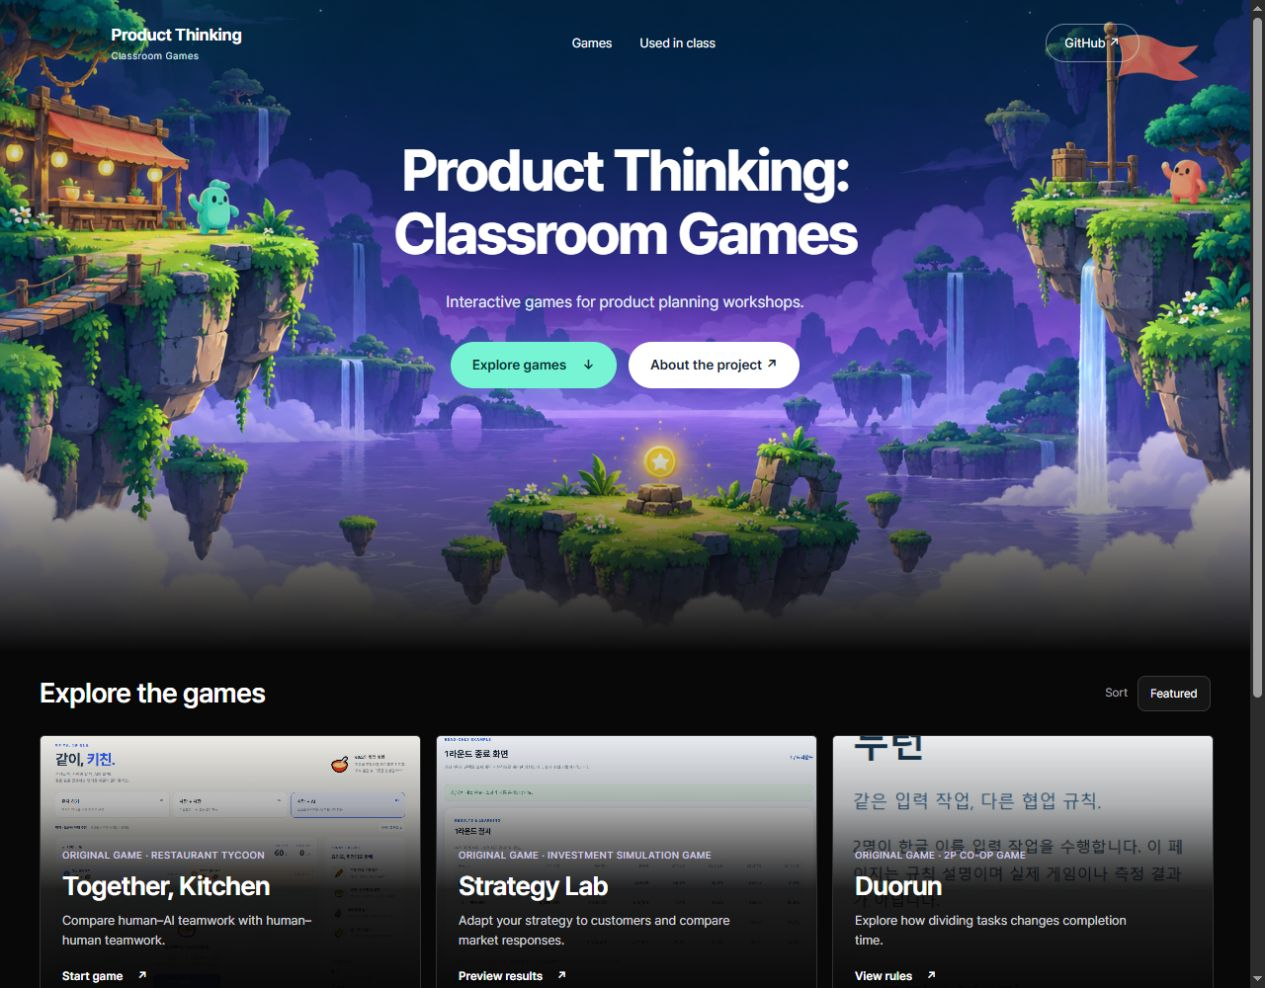
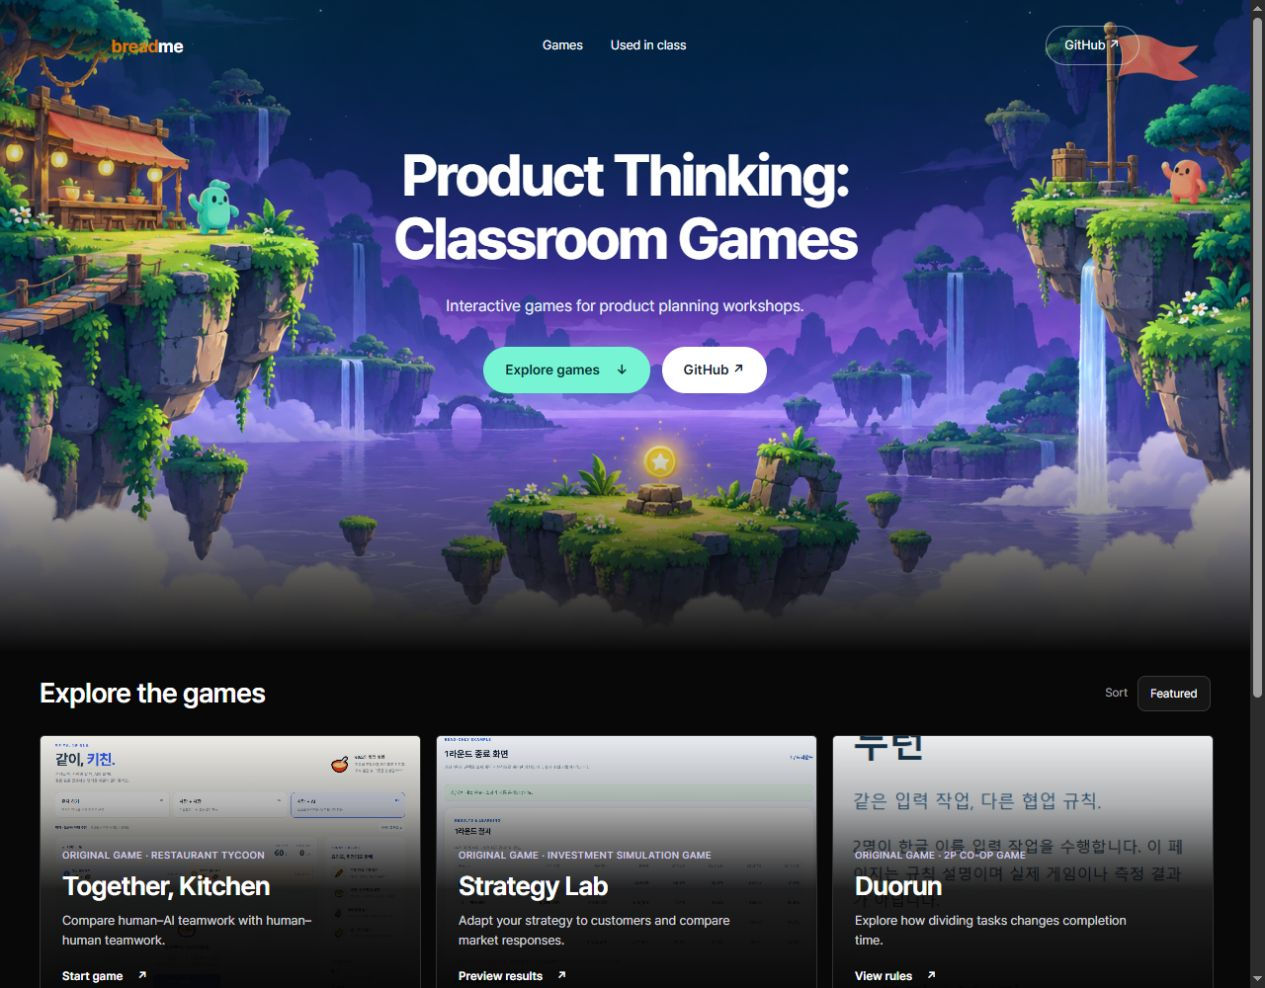
Reuse breadme portfolio wordmark and label GitHub links

diff --git a/index.html b/index.html
@@ -2,7 +2,7 @@
 <html lang="en"><head><meta charset="utf-8"><meta name="viewport" content="width=device-width,initial-scale=1"><meta name="color-scheme" content="dark"><title>Product Thinking: Classroom Games</title><link rel="stylesheet" href="style.css"></head><body class="hub">
 <a class="skip-link" href="#games">Skip to games</a>
 <section class="game-hero" aria-labelledby="hero-title">
-<nav class="hero-nav" aria-label="Main navigation"><a class="hero-brand" href="#">Product Thinking<span>Classroom Games</span></a><div><a href="#games">Games</a><a href="#external-game">Used in class</a></div><a class="hero-github" href="https://github.com/nana-park/product-thinking-classroom-games">GitHub ↗</a></nav>
-<div class="hero-copy"><h1 id="hero-title">Product Thinking:<br>Classroom Games</h1><p>Interactive games for product planning workshops.</p><div class="hero-actions"><a class="hero-primary" href="#games">Explore games <span aria-hidden="true">↓</span></a><a class="hero-secondary" href="https://github.com/nana-park/product-thinking-classroom-games#readme">About the project ↗</a></div></div>
+<nav class="hero-nav" aria-label="Main navigation"><a class="breadme-brand" href="#" aria-label="breadme — back to top"><span class="breadme-prefix">bread</span>me</a><div><a href="#games">Games</a><a href="#external-game">Used in class</a></div><a class="hero-github" href="https://github.com/nana-park/product-thinking-classroom-games">GitHub ↗</a></nav>
+<div class="hero-copy"><h1 id="hero-title">Product Thinking:<br>Classroom Games</h1><p>Interactive games for product planning workshops.</p><div class="hero-actions"><a class="hero-primary" href="#games">Explore games <span aria-hidden="true">↓</span></a><a class="hero-secondary" href="https://github.com/nana-park/product-thinking-classroom-games#readme">GitHub ↗</a></div></div>
 </section>
 <main class="news-shell" id="games" tabindex="-1"><header class="news-heading"><h2>Explore the games</h2><div class="news-sort"><label for="game-sort">Sort</label><select id="game-sort" aria-label="Sort games"><option value="default">Featured</option><option value="name">A–Z</option></select></div></header><ul class="news-grid" id="game-list"><li data-name="Together, Kitchen" data-order="0" ><a class="news-card kitchen-card" href="games/together-kitchen/index.html"><img class="news-image" src="games/together-kitchen/screenshot.png" alt="Together, Kitchen preview"><span class="news-content"><span class="news-category">Original game · Restaurant Tycoon</span><span class="news-title">Together, Kitchen</span><span class="news-purpose">Compare human–AI teamwork with human–human teamwork.</span><span class="news-action">Start game <span aria-hidden="true">↗</span></span></span></a></li><li data-name="Strategy Lab" data-order="1" ><a class="news-card strategy-card" href="https://customer-value-classroom.nana-the-variation.chatgpt.site/preview/results"><img class="news-image" src="games/strategy-lab/preview.png" alt="Strategy Lab preview"><span class="news-content"><span class="news-category">Original game · Investment Simulation Game</span><span class="news-title">Strategy Lab</span><span class="news-purpose">Adapt your strategy to customers and compare market responses.</span><span class="news-action">Preview results <span aria-hidden="true">↗</span></span></span></a></li><li data-name="Duorun" data-order="2" ><a class="news-card duorun-card" href="games/duorun/preview.html"><img class="news-image" src="games/duorun/screenshot.png" alt="Duorun preview"><span class="news-content"><span class="news-category">Original game · 2P Co-op Game</span><span class="news-title">Duorun</span><span class="news-purpose">Explore how dividing tasks changes completion time.</span><span class="news-action">View rules <span aria-hidden="true">↗</span></span></span></a></li><li data-name="User Inyerface" data-order="3" id="external-game"><a class="news-card external-card" href="https://userinyerface.com/"><span class="external-art" aria-hidden="true">UI<span>?</span></span><span class="news-content"><span class="news-category">External · Used in class · UI Experience</span><span class="news-title">User Inyerface</span><span class="news-purpose">Experience frustrating interfaces and spot design barriers.</span><span class="news-action">Visit original game <span aria-hidden="true">↗</span></span></span></a></li></ul></main><script>const list=document.getElementById('game-list');document.getElementById('game-sort').addEventListener('change',event=>{[...list.children].sort((a,b)=>event.target.value==='name'?a.dataset.name.localeCompare(b.dataset.name,'en'):Number(a.dataset.order)-Number(b.dataset.order)).forEach(item=>list.appendChild(item));});</script></body></html>

diff --git a/style.css b/style.css
@@ -25,3 +25,6 @@ body>header,body>main:not(.report-shell){max-width:1040px;margin:auto;padding:24
 body.hub{background:#080808;color:#fff}.hub .game-hero::after{content:"";position:absolute;inset:auto 0 0;height:240px;background:linear-gradient(180deg,transparent,#080808);pointer-events:none;z-index:0}.hub .hero-nav,.hub .hero-copy{position:relative;z-index:1}.hub .news-shell{max-width:1280px;margin:auto;padding:24px 40px 80px}.news-heading{display:flex;align-items:center;justify-content:space-between;gap:20px;margin-bottom:24px}.news-heading h2{color:#fff;font-size:28px;line-height:1.2;margin:0;font-weight:600}.news-sort{display:flex;align-items:center;gap:10px;font-size:12px;color:#a6a6aa}.news-sort select{background:#151515;border-color:#383838;color:#fff;padding-right:12px}.news-grid{list-style:none;padding:0;margin:0;display:grid;grid-template-columns:repeat(3,minmax(0,1fr));gap:18px}.news-grid>li{min-width:0}.news-card{position:relative;display:block;overflow:hidden;border-radius:5px;background:#26262a;aspect-ratio:1.38;min-height:280px;text-decoration:none;isolation:isolate;border:1px solid #303034}.news-image{position:absolute;inset:0;display:block;width:100%;height:100%;object-fit:cover;object-position:center 20%;transition:transform .2s ease}.duorun-card .news-image{object-position:center 12%}.news-card::after{content:"";position:absolute;inset:0;background:linear-gradient(180deg,rgba(0,0,0,.05) 0%,rgba(0,0,0,.3) 25%,rgba(0,0,0,.88) 56%,#050505 100%);z-index:0}.news-content{position:absolute;z-index:1;left:22px;right:22px;bottom:20px;display:flex;flex-direction:column;align-items:flex-start}.news-category{font-size:10px;font-weight:500;letter-spacing:.045em;text-transform:uppercase;line-height:1.6;color:#d2c9e6}.news-title{font-size:27px;font-weight:650;letter-spacing:-.03em;line-height:1.15;margin-top:8px;color:white}.news-purpose{font-size:13px;line-height:1.5;color:#d6d6dc;margin-top:10px;max-width:36ch}.news-action{display:flex;gap:14px;align-items:center;margin-top:14px;font-size:12px;min-height:28px;font-weight:600;color:white;border-bottom:1px solid #74747b}.news-card:hover .news-image{transform:scale(1.03)}.news-card:hover .news-action{border-color:#a5ffe5;color:#a5ffe5}.news-card:focus-visible{outline:3px solid #a5ffe5;outline-offset:4px}.external-art{position:absolute;inset:0;display:flex;align-items:flex-start;justify-content:flex-end;padding:18px 28px;font-size:100px;font-weight:800;line-height:1;color:#c5ff77;background:linear-gradient(135deg,#3c2e56,#17121f);letter-spacing:-.08em}.external-art>span{color:#fff;font-size:68px;transform:rotate(12deg);margin-top:12px}.hub :focus-visible{outline-color:#a5ffe5}
 @media(max-width:1023px){.news-grid{grid-template-columns:repeat(2,minmax(0,1fr))}.hub .news-shell{padding:24px 24px 64px}}@media(max-width:767px){.news-grid{grid-template-columns:1fr;gap:18px}.hub .news-shell{padding:24px 20px 48px}.news-heading h2{font-size:24px}.news-heading{gap:12px}.news-sort label{display:none}.news-sort select{font-size:12px;height:40px}.news-card{min-height:290px;aspect-ratio:1.2}.news-title{font-size:27px}.news-content{left:20px;right:20px;bottom:18px}.news-action{min-height:36px}.hub .game-hero::after{height:190px}}
 @media(prefers-reduced-motion:reduce){.news-image{transition:none}}
+
+/* Reuse the portfolio's actual typographic breadme wordmark; light suffix for dark background. */
+.breadme-brand{display:inline-flex;align-items:center;min-height:44px;font-family:Pretendard,Inter,sans-serif;font-size:18px;font-weight:700;line-height:1.5;letter-spacing:-.36px;text-decoration:none;color:#fff}.breadme-prefix{color:#d97706}

diff --git a/docs/ENGLISH-NEWS-CARDS.md b/docs/ENGLISH-NEWS-CARDS.md
@@ -7,3 +7,7 @@ The hub's navigation, purposes, categories, actions, and sorting are in English.
 Chrome validation at 1280 × 1000 and 390 × 844: four cards, loaded images, three/one columns, no horizontal or text overflow. A–Z and Featured sorting work. Screenshots: `news-hero-desktop.jpg`, `news-cards-desktop.jpg`, `news-cards-mobile.jpg`.
 
 No private services, backend data, credentials, or game runtimes were changed.
+
+## Portfolio branding
+
+The breadme wordmark is reused from the public portfolio's rendered header and its OriginalHeader component: Pretendard, 18px, weight 700, -0.36px tracking, and #D97706 for bread. The me suffix is white for this dark header. The portfolio implements the mark as styled text, not an image asset. The logo links to the game hub top; GitHub destinations are explicitly labeled GitHub. Source: https://nana-park.github.io/breadme/.
